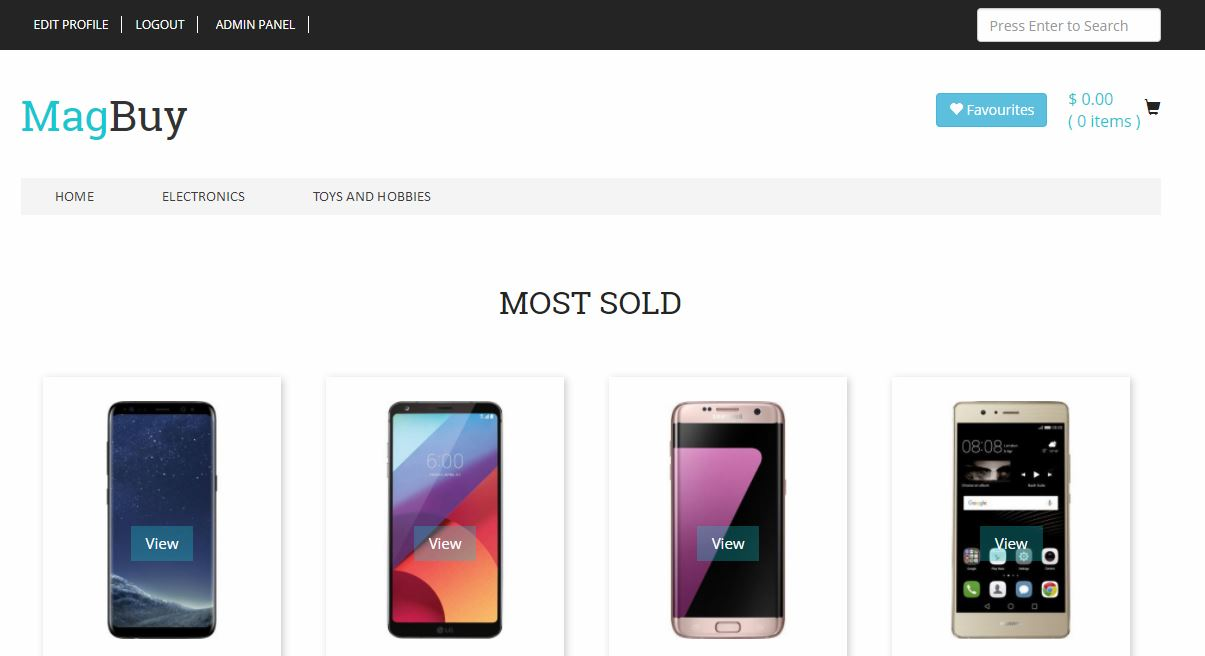
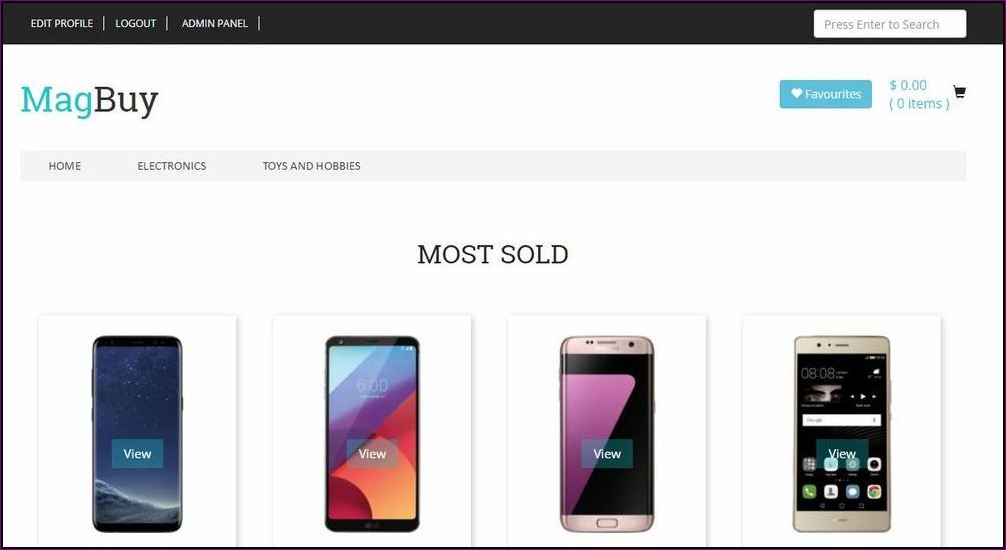
Preview images styled for readme

diff --git a/README.md b/README.md
@@ -94,8 +94,8 @@ ordered products.
 # Previews
 
 ## Home
-![Home Demo](https://raw.githubusercontent.com/lgadzhev/MagBuy/master/Demo1.JPG)
+![Home Demo](https://raw.githubusercontent.com/lgadzhev/MagBuy/master/Demo1.jpg)
 ## Category
-![Category Demo](https://raw.githubusercontent.com/lgadzhev/MagBuy/master/Demo2.JPG)
+![Category Demo](https://raw.githubusercontent.com/lgadzhev/MagBuy/master/Demo2.jpg)
 ## Admin Panel
-![Admin Panel Demo](https://raw.githubusercontent.com/lgadzhev/MagBuy/master/Demo3.JPG)
+![Admin Panel Demo](https://raw.githubusercontent.com/lgadzhev/MagBuy/master/Demo3.jpg)
